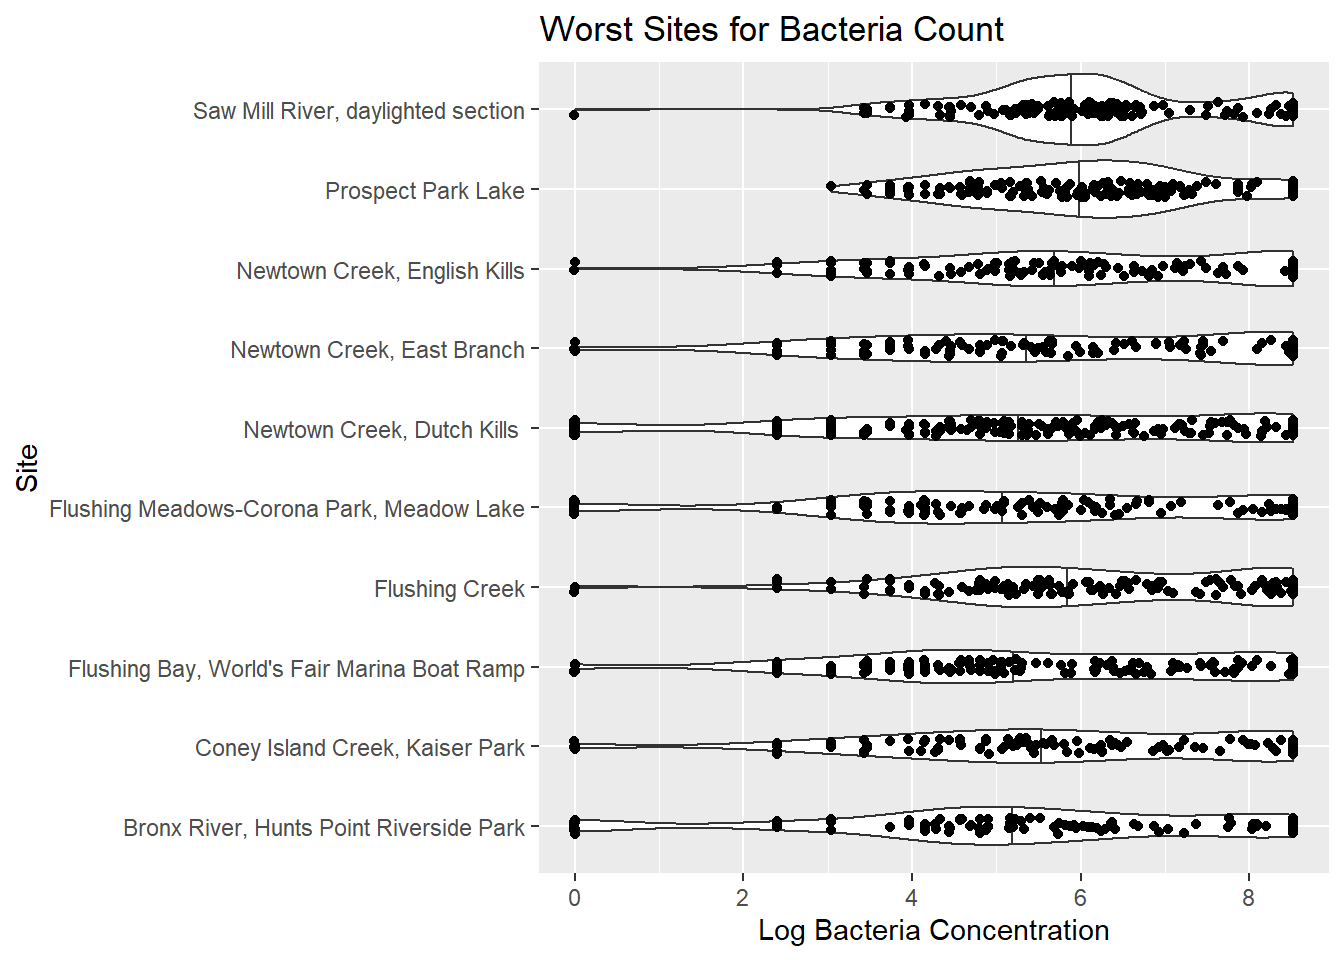
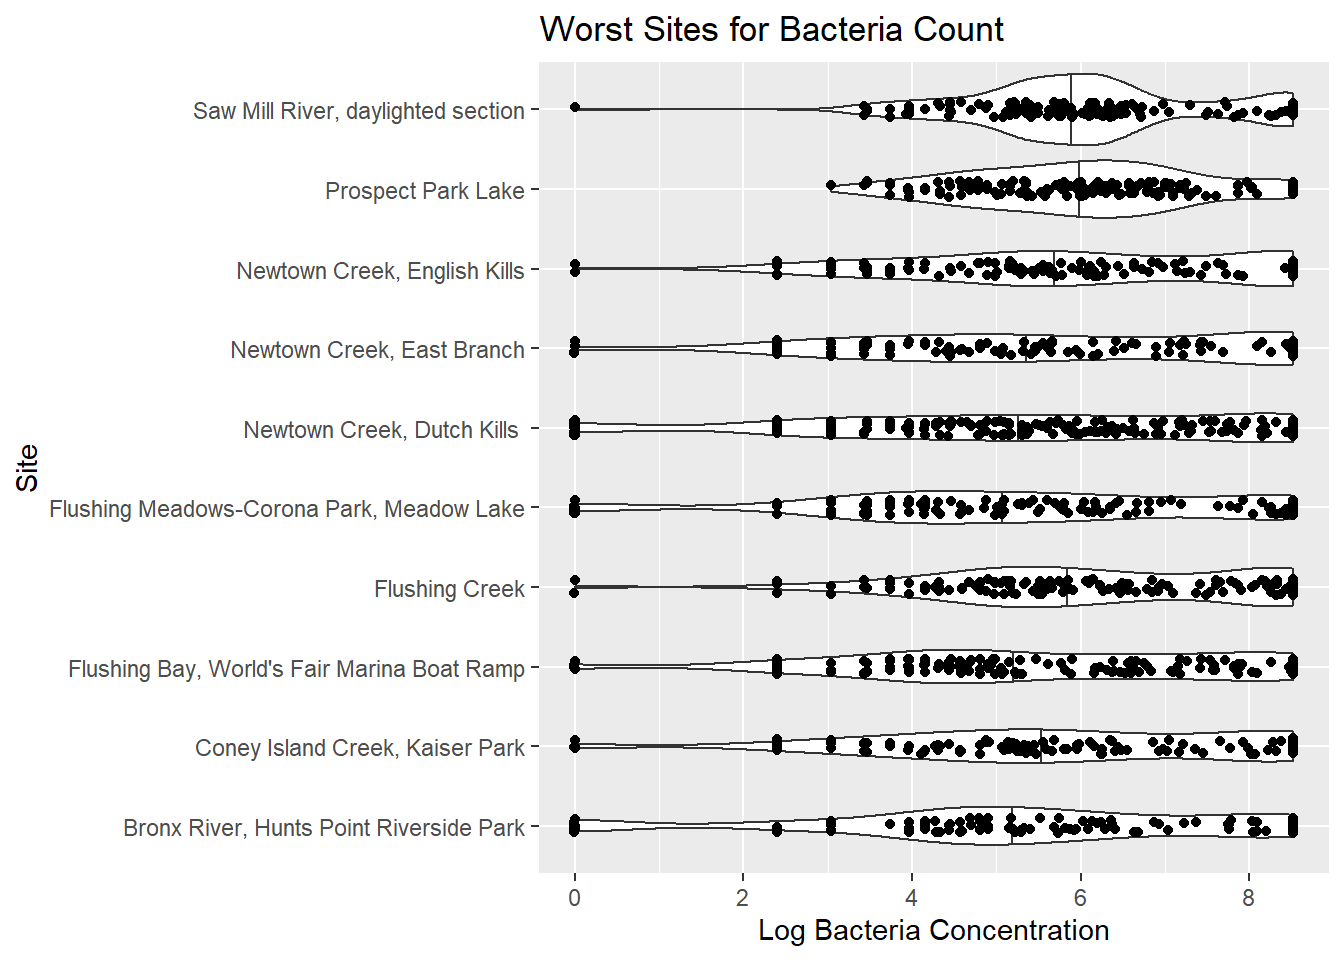
more typos

diff --git a/oyster/BOP_WQ_exploration.html b/oyster/BOP_WQ_exploration.html
@@ -118,7 +118,7 @@ CurrentSpeed = HighLowRangeFt * sin(\pi * \frac{HoursSinceLastTide}{TideDuration
 <p>I chose to use just the weekly total rainfall and the one-day rainfall amounts. Obviously, we don’t know if the more of 1-day rain fell before or after the sample was taken.</p>
 <p>The BOP data does not include temperature. I used the NOAA Central Park temperature for each sample day as a data feature. This is a (not very good) proxy for the water temperature but also for seasonality. This allows seasonality to be a continuous variable. Otherwise, “month” would be a categorical variable.</p>
 <p>In the end I chose to the following features: <code>SampleTime</code>, <code>Enterococci</code>, <code>TideHighLowRange</code>, <code>TideDurationHrs</code>, <code>HoursSinceLastTide</code>, <code>CurrentSpeed</code>, <code>OneDayRain</code>, <code>WeeklyRain</code> and <code>Temperature</code>.</p>
-<p>The bacteria levels ar9e distributed in a lopsided way. The extreme high level is effectively infinity and conveys little information. Values above 5000 are only 5% of the observations and values below 500 are 82% of the observations.</p>
+<p>The bacteria levels are distributed in a lopsided way. The extreme high level is effectively infinity and conveys little information. Values above 5000 are only 5% of the observations and values below 500 are 82% of the observations.</p>
 <div class="cell">
 <div class="cell-output-display">
 <div>
@@ -244,8 +244,12 @@ F-statistic:   108 on 6 and 11831 DF,  p-value: &lt; 2.2e-16</code></pre>
 </div>
 </div>
 <div class="cell">
-<div class="cell-output cell-output-error">
-<pre><code>Error in is.data.frame(x): object 'best_model_data' not found</code></pre>
+<div class="cell-output-display">
+<div>
+<figure class="figure">
+<p><img src="BOP_WQ_exploration_files/figure-html/unnamed-chunk-12-1.png" class="img-fluid figure-img" width="672"></p>
+</figure>
+</div>
 </div>
 </div>
 <div class="cell">
